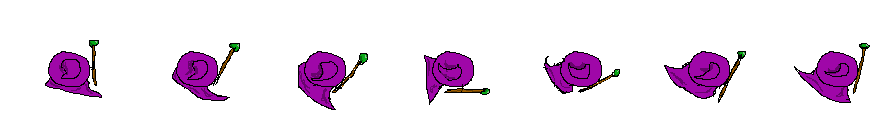
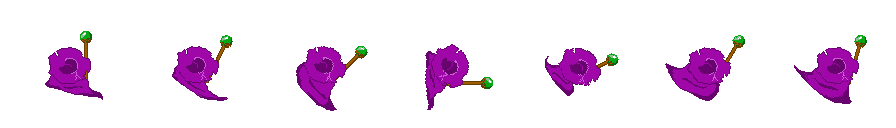
asse3ts and splash

diff --git a/lib/mag_player.dart b/lib/mag_player.dart
@@ -1,7 +1,6 @@
 import 'dart:async';
 
 import 'package:flame/components.dart';
-import 'package:flame/extensions.dart';
 
 class MagPlayer extends PositionComponent with HasGameReference {
   MagPlayer():super();
@@ -9,6 +8,8 @@ class MagPlayer extends PositionComponent with HasGameReference {
 
   double lookAngleOffset = 45;
   double lookAngle = 0;
+
+  int actualMagTileType = 0;
 
   @override
   FutureOr<void> onLoad() {
@@ -19,6 +20,7 @@ class MagPlayer extends PositionComponent with HasGameReference {
   @override
   void update(double dt) {
     angle = radians(lookAngle - lookAngleOffset);
+    magSprite.actualMagTileType = actualMagTileType;
     super.update(dt);
   }
 
@@ -27,6 +29,8 @@ class MagPlayer extends PositionComponent with HasGameReference {
 
 class MagSprite extends SpriteAnimationComponent with HasGameReference {
   MagSprite():super();
+  
+  int actualMagTileType = 0;
 
   @override
   Future<void> onLoad() async {
@@ -48,5 +52,44 @@ class MagSprite extends SpriteAnimationComponent with HasGameReference {
     await super.onLoad();
   }
 
+  @override
+  void update(double dt) {
+    final floorResponse = FloorResponse();
+    floorResponse.actualMagTileType = actualMagTileType;
+    add(floorResponse);
+    super.update(dt);
+  }
+
 }
 
+
+class FloorResponse extends SpriteAnimationComponent with HasGameReference {
+  FloorResponse():super();
+
+  int actualMagTileType = 0;
+
+  @override
+  Future<void> onLoad() async {
+    // Load a sprite sheet image
+    final spriteName = switch (actualMagTileType) {
+      _ => 'splash.png'
+    };
+
+    final spriteSheet = await game.images.load(spriteName);
+    // Define the size of each frame in the sprite sheet
+    final spriteSize = Vector2(128, 128);
+    // Create the animation from the sprite sheet
+    animation = SpriteAnimation.fromFrameData(
+      spriteSheet,
+      SpriteAnimationData.sequenced(
+        amount: 7, // number of frames
+        stepTime: 0.15, // time per frame
+        textureSize: spriteSize,
+      ),
+    );
+    size = spriteSize;
+    anchor = Anchor.center;
+    await super.onLoad();
+  }
+
+}

diff --git a/lib/game_status.dart b/lib/game_status.dart
@@ -7,6 +7,7 @@ class GameStatus {
   GameStatus():super();
 
   double moveFactor = 1.0;
+  int actualTileType = 0;
 
   Map map = Map();
 
@@ -15,15 +16,15 @@ class GameStatus {
     final indexA = (actualPosition.x / 128).toInt();
     final indexB = (actualPosition.y / 128 + 32/128).toInt();
 
-    final index = indexA*32 + indexB;
+    final index = indexA*64 + indexB;
 
-    int actualTileType = map.map.elementAt(index).typeColor;
+    actualTileType = map.map.elementAt(index).typeColor;
     moveFactor = switch (actualTileType) {
-      0 => -1.0,
+      0 => 0.1,
       1 => 0.5,
-      2 => -1.0,
+      2 => 0.1,
       3 => 1.0,
-      4 => 0.0,
+      4 => 1.1,
       5 => 1.0,
       6 => 1.0,
       7 => 1.0,
@@ -71,7 +72,7 @@ class MapTile extends SpriteComponent {
       4 => 'stone.png',
       // 5 => 'lava.png',
       // 6 => 'lava.png',
-      // 7 => 'lava.png',
+      7 => 'egg.png',
       _ => 'grass.png',
     };
     sprite = await Sprite.load(selectedSprite);

diff --git a/lib/main.dart b/lib/main.dart
@@ -31,7 +31,7 @@ class MyEmptyGame extends FlameGame with HasKeyboardHandlerComponents, HasCollis
     spell.position = size / 4;
     world.add(spell);
 
-    debugMode = true;
+    debugMode = false;
 
     
 
@@ -77,6 +77,8 @@ class MyEmptyGame extends FlameGame with HasKeyboardHandlerComponents, HasCollis
     MagPlayer mag = world.children.query<MagPlayer>().first;
 
     gs.updateMoveFactor(mag.position);
+
+    mag.actualMagTileType = gs.actualTileType;
 
     final playerSpeed = voland.speed*gs.moveFactor;
     mag.position += playerSpeed * 200 * dt; 
